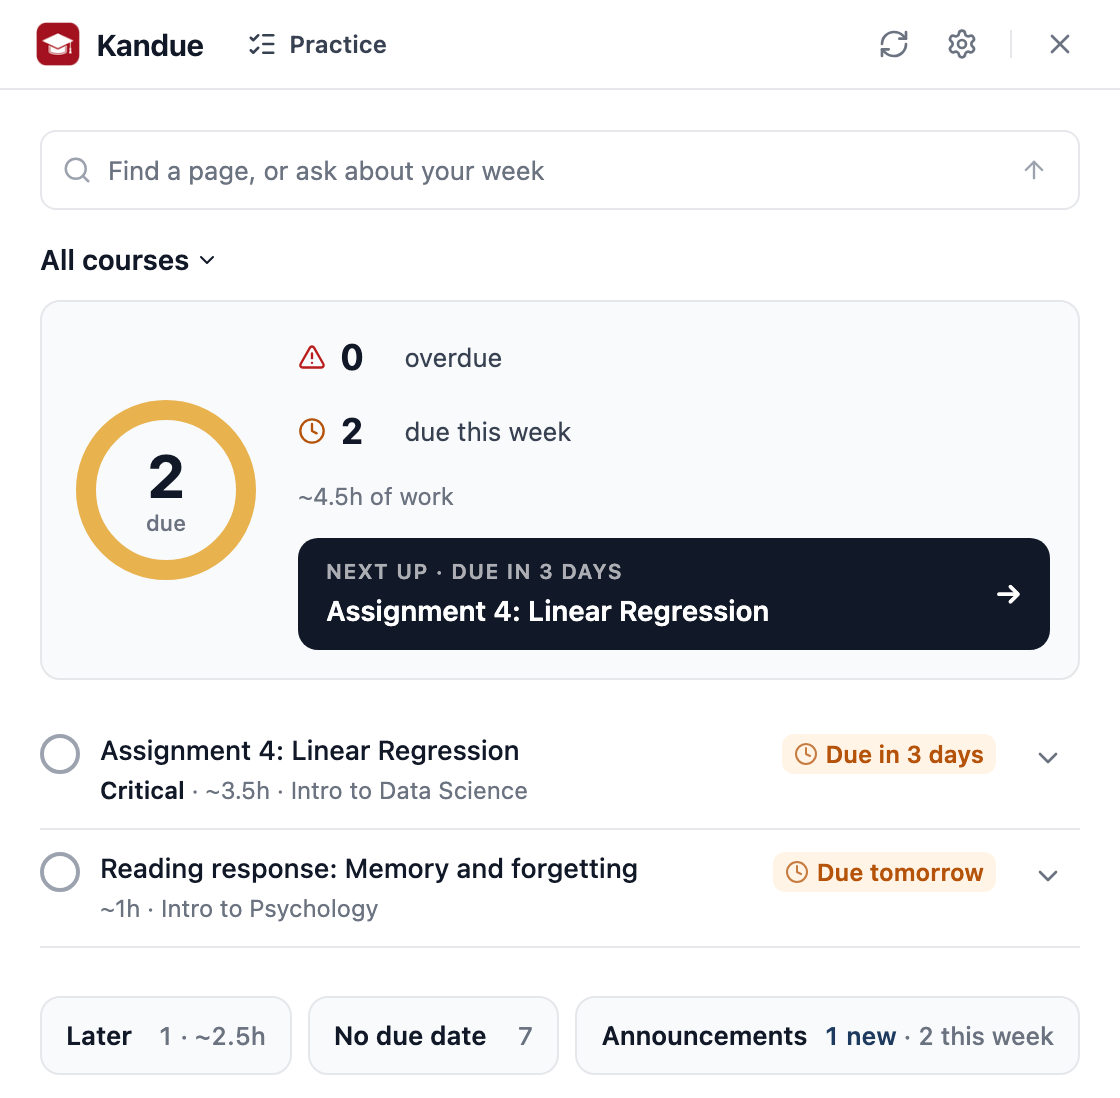
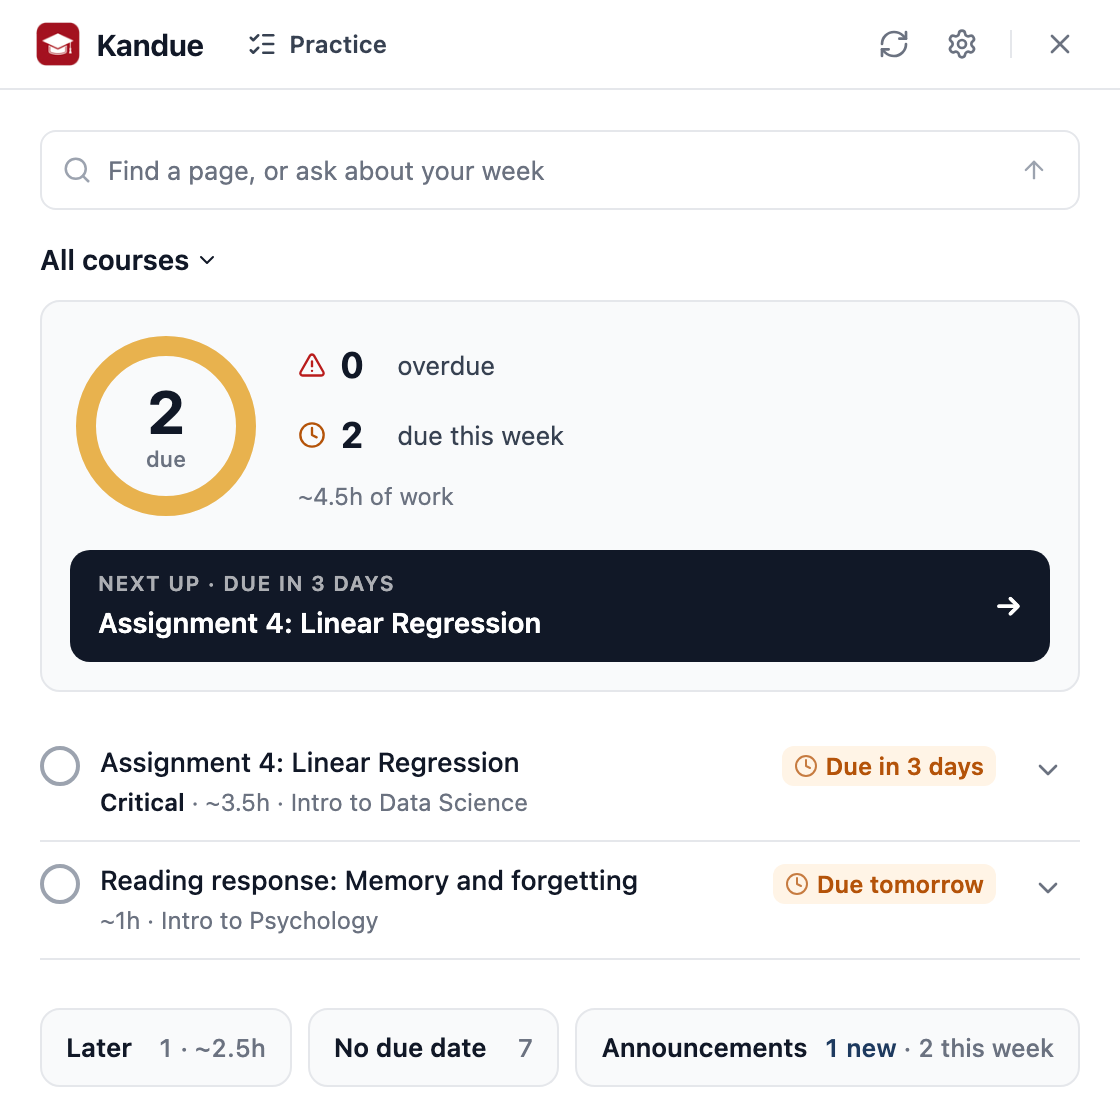
Screenshots with the summary's button under the ring

diff --git a/docs/index.html b/docs/index.html
@@ -382,7 +382,7 @@
                 <div class="shot-feature">
                     <!-- ?v= is the edge cache key (see the brand mark): these files were
                          replaced in place, and Cloudflare holds them for four hours. -->
-                    <div class="shot-media"><img src="ss1.png?v=8" width="1120" height="1098" alt="The Kandue panel under a bar reading &quot;Find a page, or ask about your week&quot;: a ring of 2 due, 0 overdue and 2 due this week at about 4.5 hours of work, a Next up button naming Assignment 4: Linear Regression, due in 3 days, then that assignment marked Critical and a reading response, each ending in a chip saying when it is due, and buttons for Later, No due date and Announcements with 1 new" loading="lazy" decoding="async"></div>
+                    <div class="shot-media"><img src="ss1.png?v=9" width="1120" height="1110" alt="The Kandue panel under a bar reading &quot;Find a page, or ask about your week&quot;: a ring of 2 due, 0 overdue and 2 due this week at about 4.5 hours of work, a Next up button naming Assignment 4: Linear Regression, due in 3 days, then that assignment marked Critical and a reading response, each ending in a chip saying when it is due, and buttons for Later, No due date and Announcements with 1 new" loading="lazy" decoding="async"></div>
                     <div class="shot-copy">
                         <h4>Everything due, in one place</h4>
                         <p>Overdue, due today and coming up, counted across every course, with this week's announcements above the list, each one carrying the colour of the course it is about.</p>
@@ -390,7 +390,7 @@
                 </div>
 
                 <div class="shot-feature">
-                    <div class="shot-media"><img src="ss-priorities.png?v=8" width="560" height="586" alt="The Kandue assignment queue under a bar reading &quot;Find a page, or ask about your week&quot;: a ring of 3 due, 1 overdue and 2 due this week, a Next up button naming the lab that is 1 day late, then that lab under Overdue with a red 1 day late chip, and a midterm exam and a reading under This week with amber Due in 6 days and Due in 5 days chips" loading="lazy" decoding="async"></div>
+                    <div class="shot-media"><img src="ss-priorities.png?v=9" width="560" height="592" alt="The Kandue assignment queue under a bar reading &quot;Find a page, or ask about your week&quot;: a ring of 3 due, 1 overdue and 2 due this week, a Next up button naming the lab that is 1 day late, then that lab under Overdue with a red 1 day late chip, and a midterm exam and a reading under This week with amber Due in 6 days and Due in 5 days chips" loading="lazy" decoding="async"></div>
                     <div class="shot-copy">
                         <h4>Know what to start</h4>
                         <p>Your week ranked by what actually matters first, each task with an hour estimate and one line on why it's there. Tell it how long something really took and the estimates adjust to you.</p>
@@ -542,7 +542,7 @@
                 <p class="sub">Fictional course, invented students: nothing in these captures comes from a real Canvas course.</p>
 
                 <div class="shot-feature">
-                    <div class="shot-media"><img src="ss-grading-queue.png?v=17" width="560" height="806" alt="The Kandue for Graders queue: a You · 17 / Everyone · 44 switch beside the Report link, 17 to grade in a ring split into 2 at 7+ days since due and 15 under 7 days with a Next to grade button naming Rosa Mendes on HW0: Warm-up, then rows for HW0, HW1 and Lab 2, each title followed by when it was due (Due 11 days ago, in red, for HW0), with a bar of one block per submission and a line such as &quot;2 of your 8 still to grade · 6 graded&quot;, and Not due yet and Done buttons under the list" loading="lazy" decoding="async"></div>
+                    <div class="shot-media"><img src="ss-grading-queue.png?v=18" width="560" height="806" alt="The Kandue for Graders queue: a You · 17 / Everyone · 44 switch beside the Report link, 17 to grade in a ring split into 2 at 7+ days since due and 15 under 7 days with a Next to grade button naming Rosa Mendes on HW0: Warm-up, then rows for HW0, HW1 and Lab 2, each title followed by when it was due (Due 11 days ago, in red, for HW0), with a bar of one block per submission and a line such as &quot;2 of your 8 still to grade · 6 graded&quot;, and Not due yet and Done buttons under the list" loading="lazy" decoding="async"></div>
                     <div class="shot-copy">
                         <h4>Who is waiting on you</h4>
                         <p>Every assignment with students of yours still to grade, the longest wait at the top. Each row says how long the first of your students has waited and how many of them are still to grade, with a bar for your block.</p>
@@ -556,7 +556,7 @@
                         <p>To grade, graded with the score, resubmitted, late, missing or excused, each student one click from SpeedGrader.</p>
                     </div>
                     <div class="shot">
-                        <img src="ss-grading-split.png?v=18" width="560" height="920" alt="Kandue for Graders settings showing who grades whom: three TAs with their student ranges, the signed-in grader's own block in bold, and a note that 22 of 22 graded rows match this split" loading="lazy" decoding="async">
+                        <img src="ss-grading-split.png?v=19" width="560" height="920" alt="Kandue for Graders settings showing who grades whom: three TAs with their student ranges, the signed-in grader's own block in bold, and a note that 22 of 22 graded rows match this split" loading="lazy" decoding="async">
                         <h4>Who grades whom, read back</h4>
                         <p>The split every TA is actually using, checked against every grade already entered, with the disagreements named.</p>
                     </div>
